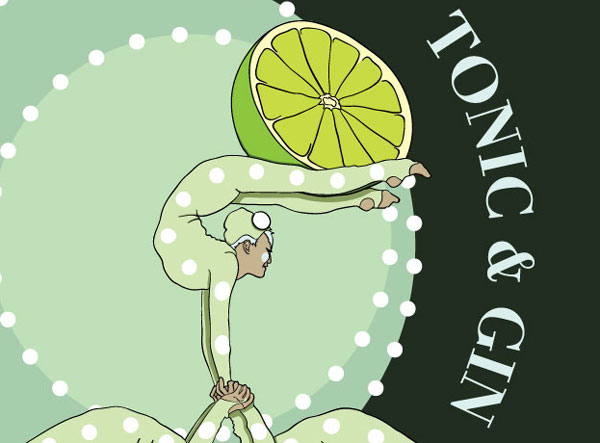
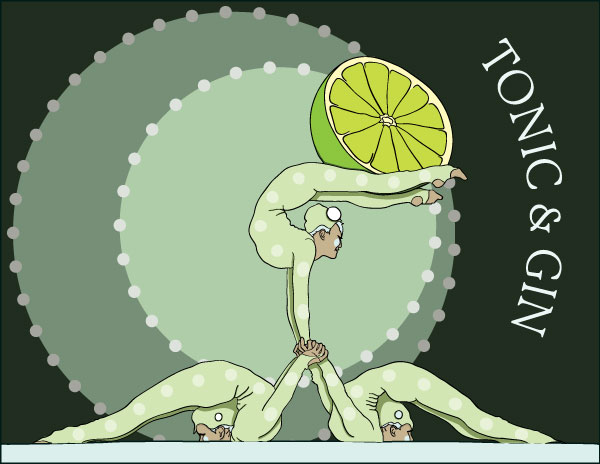
update Happy Hour

diff --git a/_projects/happy_hour.md b/_projects/happy_hour.md
@@ -10,7 +10,11 @@ hide_title: true
 ---
 
 <figure>
-  <img src="{{ site.baseurl }}/images/projects/happy_hour/gin_tonic.jpg" alt="Gin & Tonic">
+  <img src="{{ site.baseurl }}/images/projects/happy_hour/gin_tonic_revised.jpg" alt="Gin & Tonic">
+</figure>
+
+<figure>
+  <img src="{{ site.baseurl }}/images/projects/happy_hour/manhattan.jpg" alt="Manhattan">
 </figure>
 
 # Happy Hour
